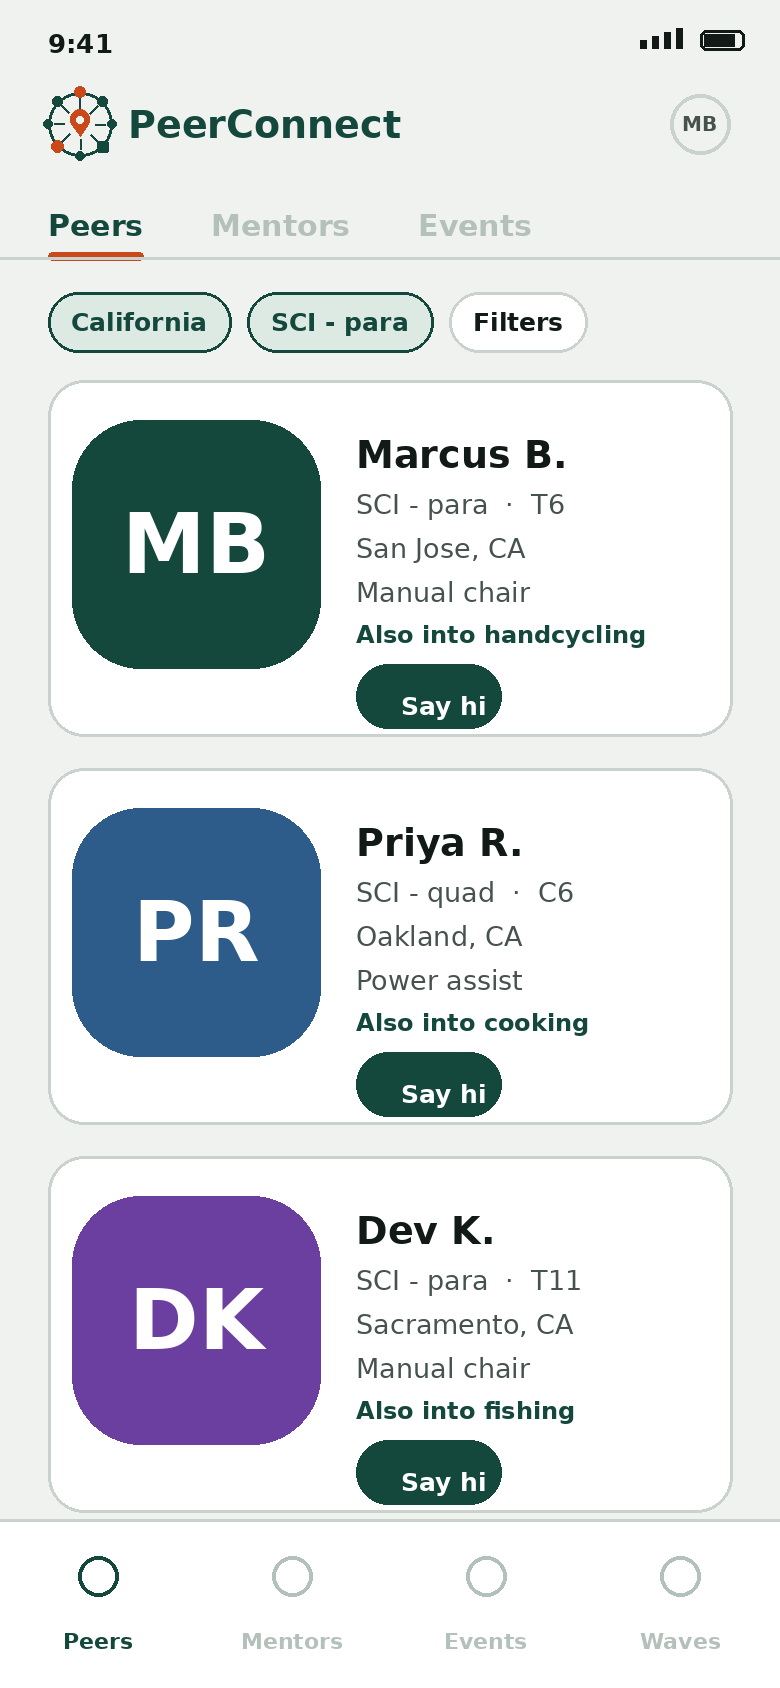
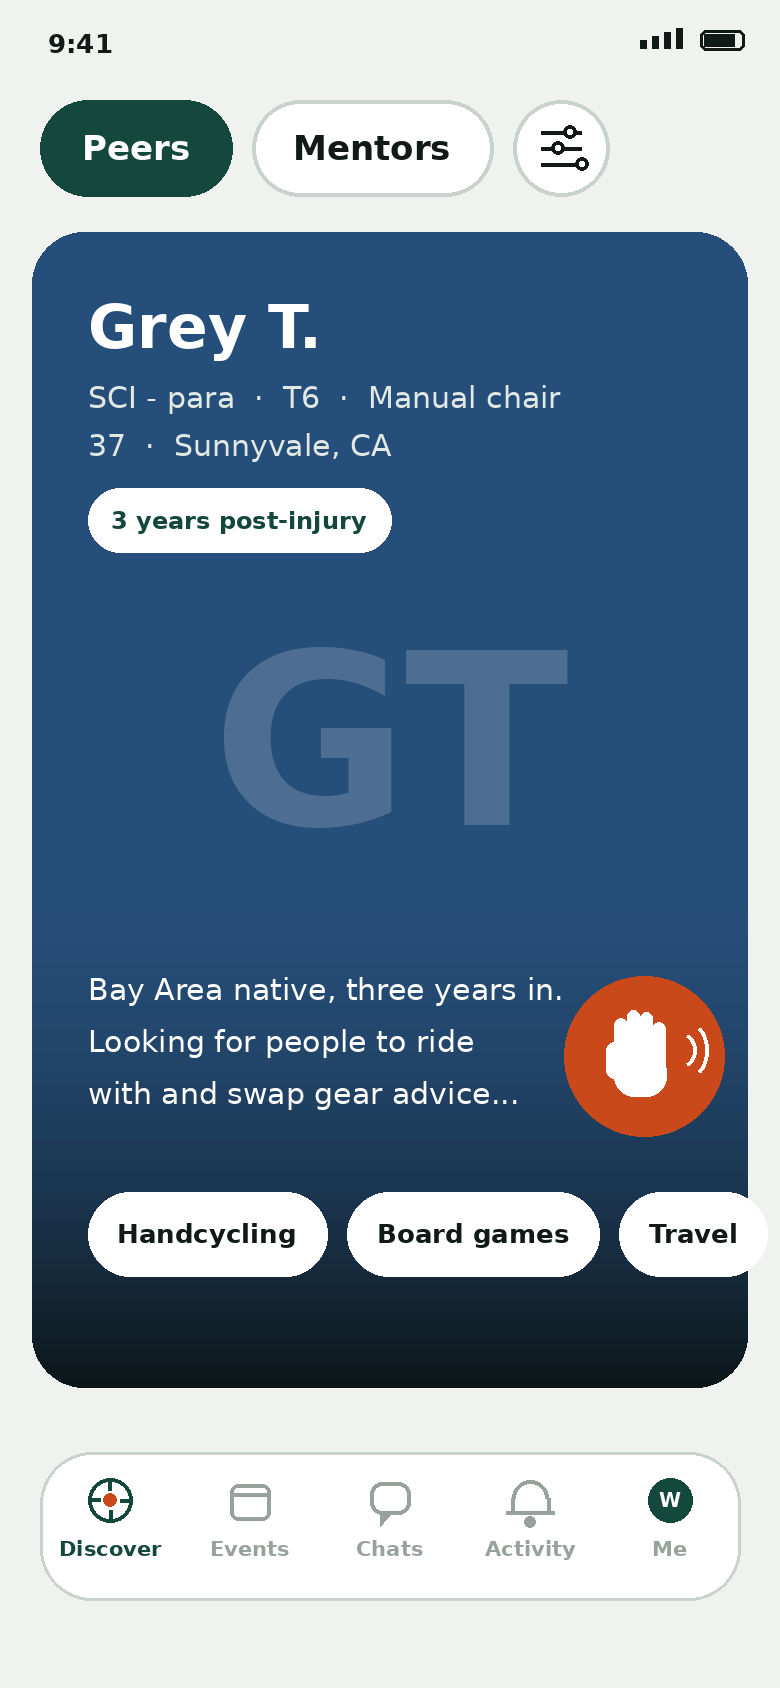
Revise PRD with full-bleed cards, gestures and CareCure forums
Replace the three-tab model with Peers/Mentors as segmented pills on a
Discover surface, and document the full-bleed card design that follows
from it. Add a gestures section covering the interest-pill scroll
conflict and the iOS left-edge reservation.

Add a "later, not now" section on partnering with CareCure rather than
running our own forum, with integration steps and the reasons against
iframing or self-hosting Discourse.

Update the home screenshot to match the new card design.

diff --git a/docs/PRD.md b/docs/PRD.md
@@ -45,7 +45,7 @@ Separately, there is no single fresh list of adaptive events. Every organization
 
 ## 5. Rough overview
 
-Three tabs: **Peers**, **Mentors**, **Events**. Horizontal swipe moves between them; the tab bar does the same with a tap.
+**Peers** and **Mentors** are segmented pills at the top of Discover; **Events** and the rest sit in the bottom bar. Horizontal swipe cycles between Peers and Mentors; the pills do the same with a tap. See [§7.2](#72-gestures).
 
 Two profile depths. Everyone becomes a **Peer** after onboarding. Peers upgrade to a longer **Mentor** profile later ([§10](#10-becoming-a-mentor)). Organizations enter through a separate web form and claim flow, not through the app.
 
@@ -157,11 +157,32 @@ Also: an **alt-text field**, and **photo visibility separate from profile visibi
 
 The tab is **Peers**, not People — it is the word the community uses and the word the rest of the product uses.
 
-**Bigger photos.** Cards lead with a large image rather than a small avatar. Two reasons: a photo carries what text cannot — chair, posture, hand function, being outside doing something — and at launch a state may hold three people. A dense list of three rows announces how empty it is; three large cards read as a considered selection.
+### 7.0 Full-bleed cards
 
-Cards show photo, name, disability and level, city, what they use, and the interests you have in common. Mentor cards add time since injury, their org badge, and a capacity badge.
+Modelled directly on Bumble BFF. **The photo is the card.** It fills the frame edge to edge, roughly two thirds of the screen, and everything else sits on top of it: name and details over the image at the top, bio and interest pills over a dark scrim at the bottom, and a large circular wave button in the lower right. One card per screen, scrolled vertically.
 
-![Peers tab filtered to California and SCI para](screens/home.png)
+- **A photo carries what text cannot** — the chair, posture, hand function, whether someone is outside doing something. A newly injured quad seeing another quad on a trail gets "this is possible" in a way no bio delivers. Giving it the whole frame is the point.
+- **Density advertises emptiness.** At launch a state may hold three people. A compact list of three rows makes a screen that is visibly nine-tenths blank; three full-screen cards read as a considered selection rather than everything we have. **We are deliberately trading profiles-per-screen for how the screen feels when there are few.** Revisit when a typical state returns twenty or more.
+- **The wave is a large circular button on the card**, not a small link in a row. It is the primary action in the product and should be the largest tap target on screen.
+
+What sits on the card, in order: name, then **disability, level and what they use** — where Bumble puts age and city, we put the things that decide whether this is the right person. Age and city go on the second line. A pill shows time since injury. The bio truncates at three lines. Interest pills scroll horizontally along the bottom and deliberately run off the edge, which signals there is more.
+
+Where there is no photo, the generated initial tile fills the same frame — a large block of colour with the initials, which reads as a design choice rather than a missing image. This is what makes the photo genuinely optional ([§6.4](#64-photos)).
+
+Mentor cards add the org badge and capacity. **Watch this one:** a full-bleed card shows less at a glance, and Mentors is closer to a decision than a browse — someone is comparing four people on whether they are open and what they will discuss. It may want a shorter card than Peers. Judge it on a real phone.
+
+**Navigation follows from the card.** With cards this large, Peers and Mentors become segmented pills at the top of a Discover surface rather than top-level tabs, and the bottom bar carries sections: **Discover · Events · Chats · Activity · Me**. That is Bumble's structure and it is defensible here — Events is not a kind of person, and Chats and Activity need somewhere to live. It does supersede the three-tab model in [§5](#5-rough-overview); if we would rather keep Peers / Mentors / Events as the bottom bar, the card design still works, but Chats and Activity need another home.
+
+### 7.2 Gestures
+
+- **Horizontal swipe cycles Peers and Mentors.** Left or right moves between the two segments, and the top pills do exactly the same thing with a tap. Two segments only, so it stops at each end rather than wrapping — with two items a wrap reads as a glitch.
+- **Vertical scroll moves through cards**, one card per screen.
+- **Swipe is an accelerator, never the only way.** Every gesture has a tap equivalent, because switch control, keyboard and VoiceOver users cannot reliably swipe. This is the same rule that ruled out swipe-to-decide in the first place.
+
+**Two gesture conflicts to handle, both real:**
+
+- **The interest pills at the bottom of a card scroll horizontally.** A drag that starts on that strip scrolls the pills; it must not change segment. Standard nested horizontal scrolling — the inner scroller claims the gesture, and only hands it up once it hits its own end.
+- **iOS reserves the left screen edge.** In a PWA or browser tab, a swipe starting within roughly 20px of the left edge is the system back gesture and we do not get it. Ignore gestures originating at the very edge rather than fighting for them, or people will get inconsistent behaviour depending on where their thumb landed.
 
 ### 7.1 Filters
 
@@ -388,6 +409,29 @@ The hackathon build is step 1 only. See [`WORKPLAN.md`](WORKPLAN.md).
 5. Does the Events tab need a public web view for SEO, given members are behind sign-in?
 
 ## 18. Later, not now
+
+### Forums — partner with CareCure rather than run our own
+
+A **Forums** tab replaces Activity in the bottom bar at some point. We do not build the forum.
+
+CareCure is a twenty-five-year-old SCI forum already running on Discourse, with around 20,000 registered accounts — and roughly 50 monthly actives. That second number is the warning, not the opportunity: a forum with no posts is worse than no forum, and unlike events it cannot be seeded from public data. Starting a second SCI forum next to a struggling one splits an already thin community twice over.
+
+**What we bring them is the thing they actually lack.** CareCure hand-approves every account because AI-generated spam overwhelmed them. Every PeerConnect member is phone-verified, and mentors are vouched for by a hospital or foundation. A member arriving through us is pre-vetted in a way a cold signup never is, which removes the work that is exhausting them — and they have said they are looking for new blood.
+
+**How to integrate, in increasing order of effort:**
+
+| Step | What it takes |
+| --- | --- |
+| Forums tab opens CareCure in a full-page view | Hours. Zero operating cost, no servers, no moderation burden. |
+| Single sign-on via DiscourseConnect | About a day on our side — one endpoint and a shared secret — plus two settings in their admin. Members land already signed in. |
+| A PeerConnect category inside CareCure | Their decision. Gives our arrivals somewhere obvious to land rather than dropping them into a 25-year-old archive. |
+| Surface their latest topics in our app via `/latest.json` | A day. A strip of recent threads on Discover, deep-linking into CareCure. |
+
+**Do not iframe it.** Safari blocks third-party cookies, so an embedded Discourse session breaks on iOS. Full-page navigation or an in-app browser, not an iframe.
+
+**Do not host our own Discourse.** Postgres, Redis, SMTP deliverability, backups and security patching are a standing commitment, not a build task — about $100 a month managed, or a person if self-hosted. All of that to compete with a partner.
+
+**Open:** moderation stays theirs, which is the right answer but means our members are subject to their rules and their moderators. Worth agreeing explicitly before we send anyone. And if they decline, the fallback is not our own general forum — it is discussion attached to things that already have people in them, like a thread per event visible to everyone who RSVPed.
 
 - **Vacation exchange.** Wojtek's idea, with Alfred's addition: members list a spare room and whether they would host someone. Genuinely valuable — accessible accommodation is hard to find and expensive, and a peer's spare room is already adapted. It is also a different risk class from messaging: someone staying overnight in a stranger's home needs verification, reviews, and a clear line on what we are responsible for. Worth building once there is a real community with a reputation system.
 - **Follower counts and an organization directory ranked by them** — see [§11.2](#112-badges-filtering-and-following).
